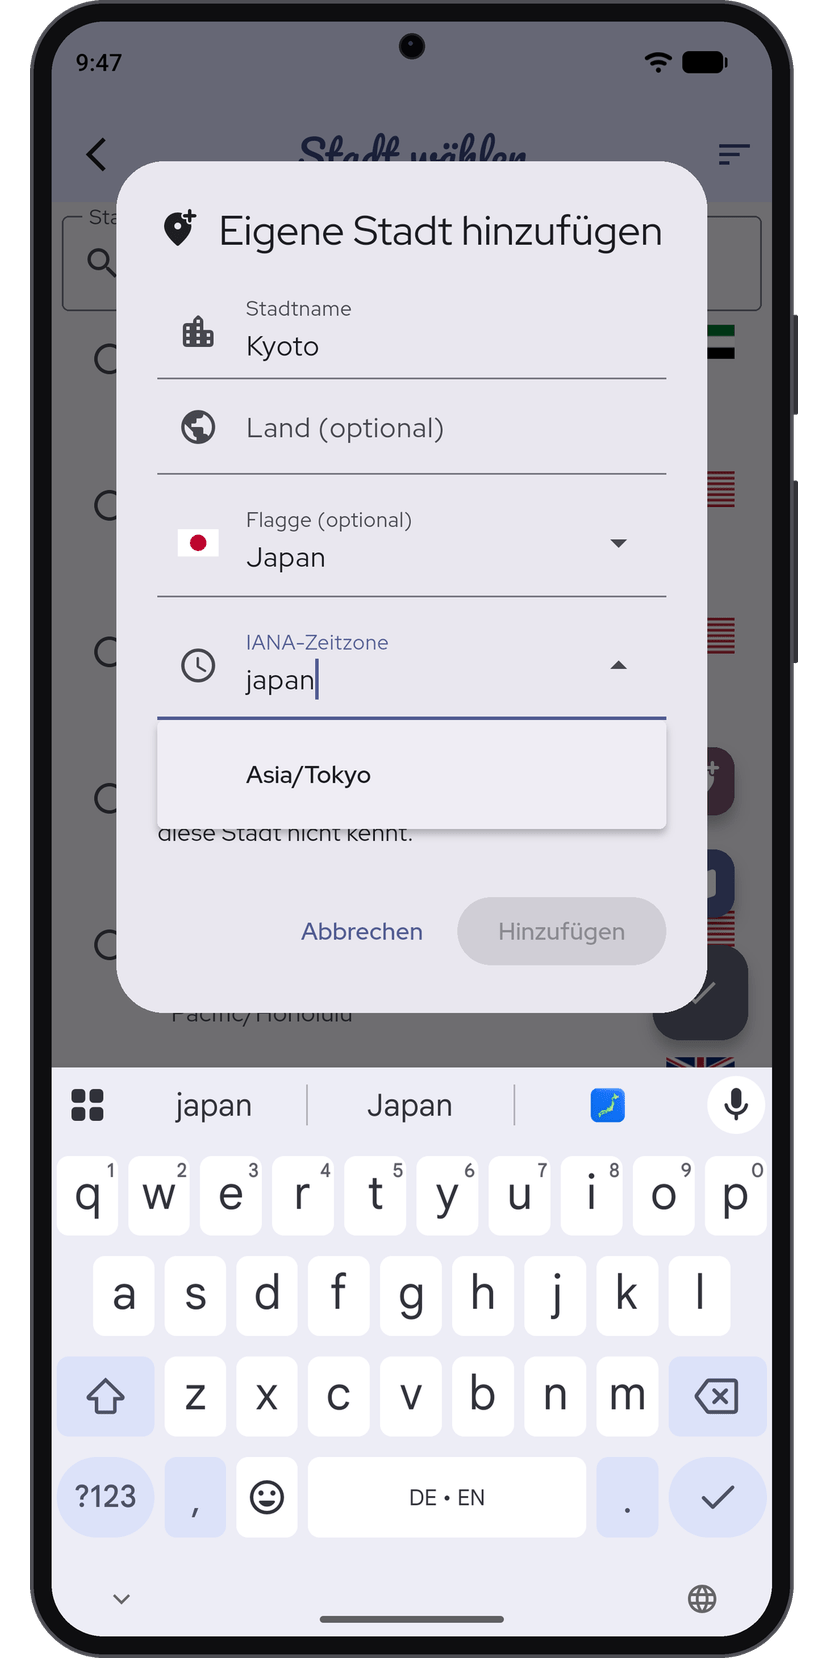
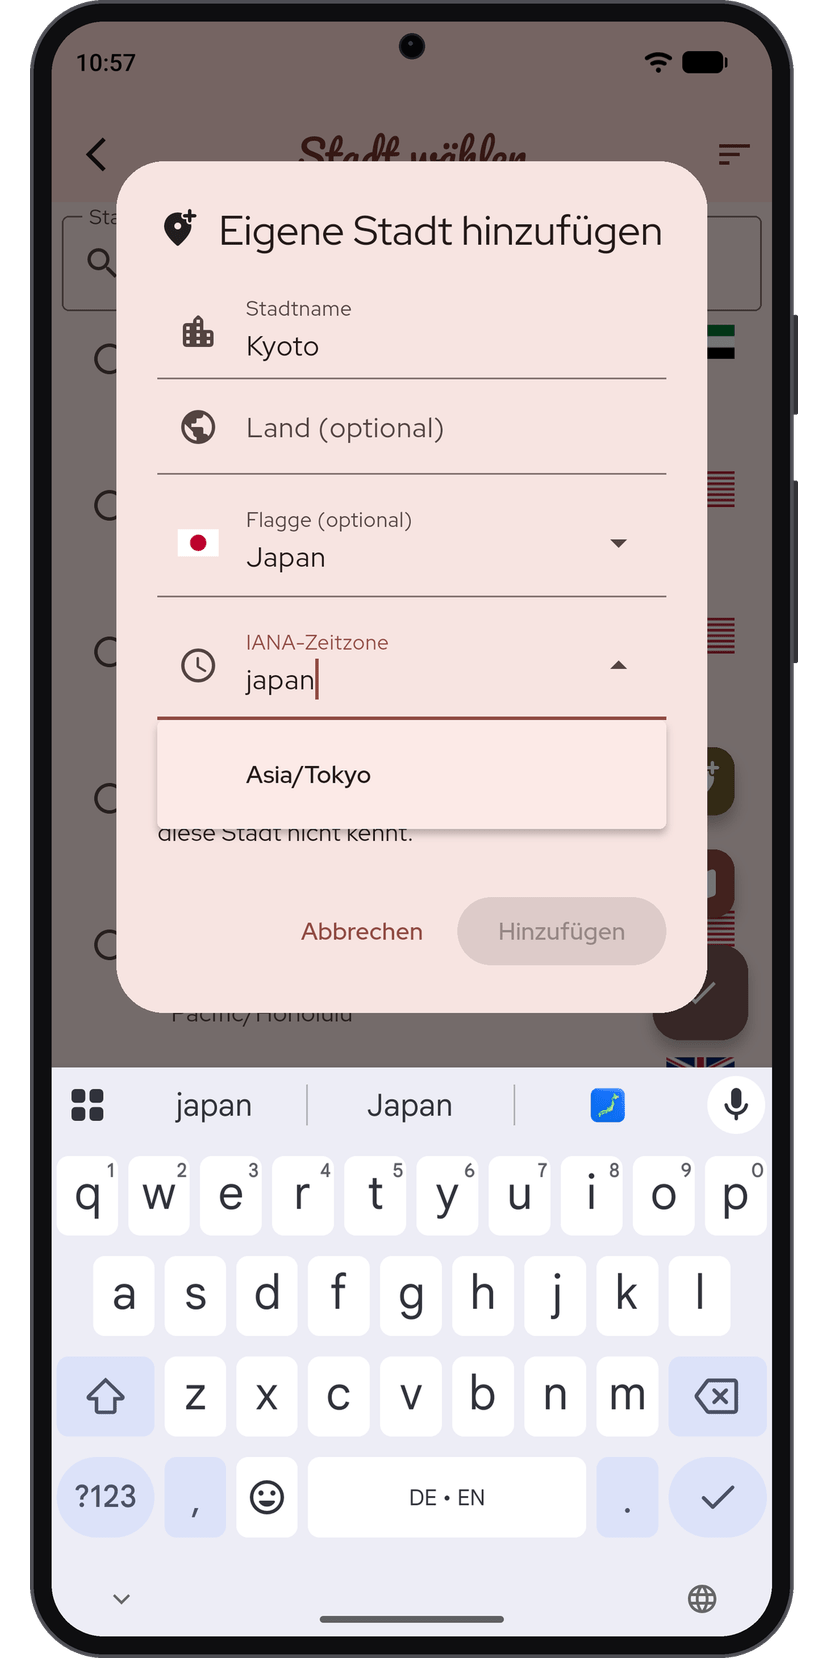
docs: retake screenshots in red
All English and German screenshots now use the red custom color, like
the original ones. Screenshot 7 shows the widget settings instead of a
purple color variant.

diff --git a/README.md b/README.md
@@ -37,7 +37,7 @@ World Clock is a Flutter app that displays the current time and weather for vari
 <img src="fastlane/metadata/android/en-US/images/phoneScreenshots/screenshot_04_city_search.png" alt="Screenshot city search" height="350"/>
 <img src="fastlane/metadata/android/en-US/images/phoneScreenshots/screenshot_05_custom_city.png" alt="Screenshot custom city" height="350"/>
 <img src="fastlane/metadata/android/en-US/images/phoneScreenshots/screenshot_06_settings.png" alt="Screenshot settings" height="350"/>
-<img src="fastlane/metadata/android/en-US/images/phoneScreenshots/screenshot_07_purple.png" alt="Screenshot custom color" height="350"/>
+<img src="fastlane/metadata/android/en-US/images/phoneScreenshots/screenshot_07_widget_settings.png" alt="Screenshot widget settings" height="350"/>
 <img src="fastlane/metadata/android/en-US/images/phoneScreenshots/screenshot_08_widget.png" alt="Screenshot home screen widget" height="350"/>
 </p>
 
